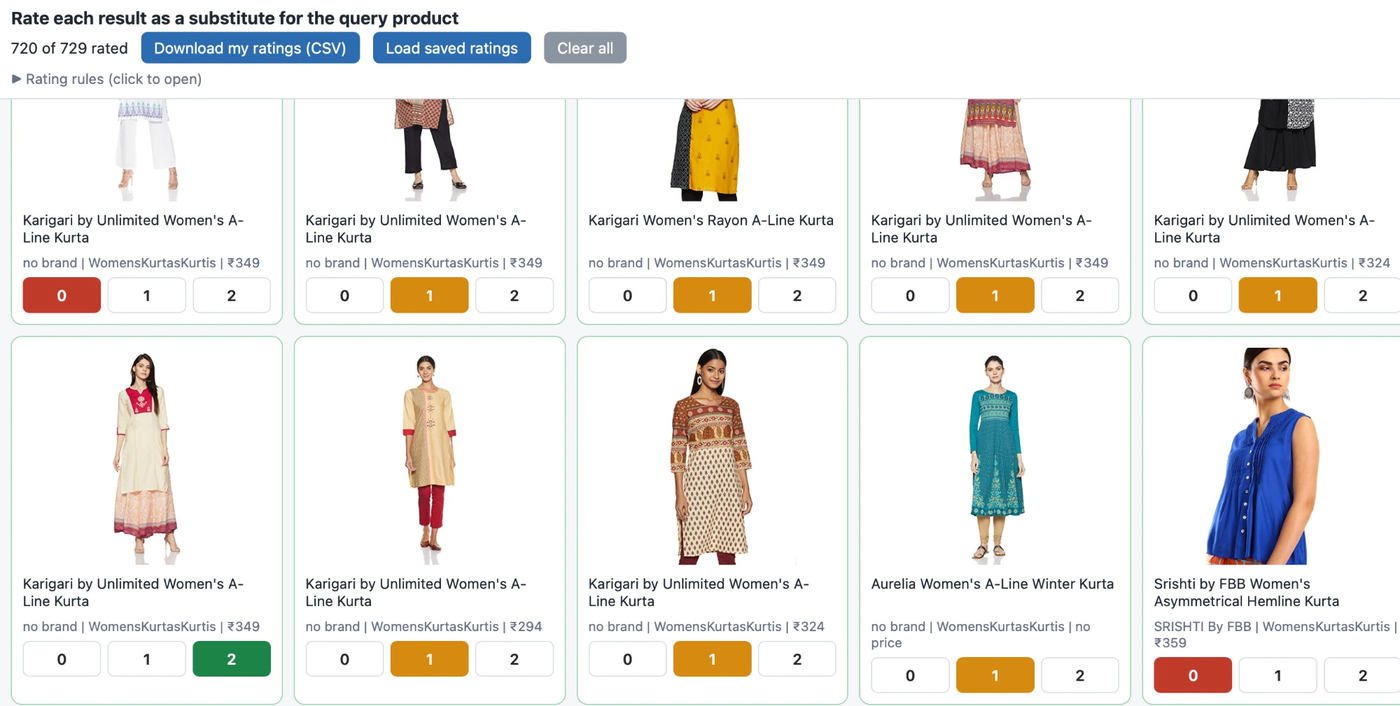
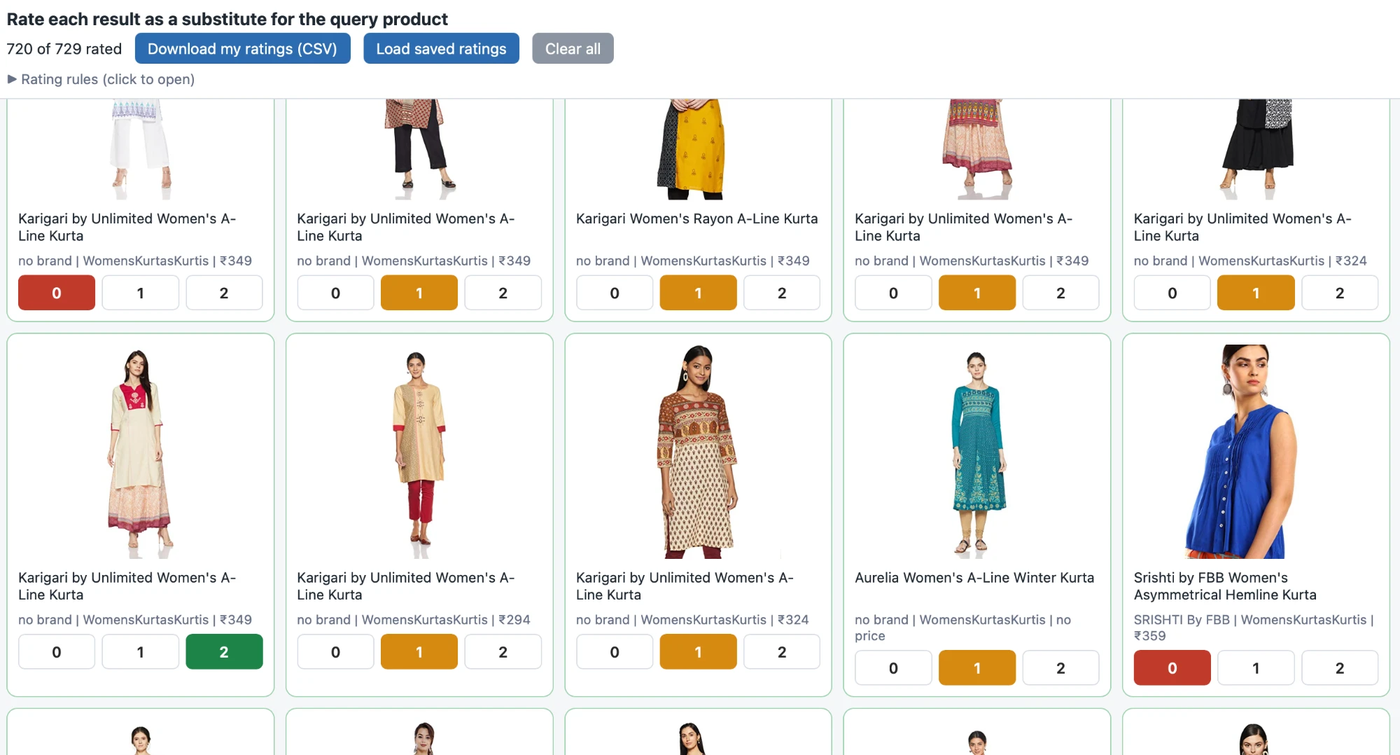
Add MLflow section and screenshots, and simplify the notes

diff --git a/experiments/run_evaluation.py b/experiments/run_evaluation.py
@@ -24,9 +24,10 @@ RESULTS = ROOT / "results"
 LIMITATIONS = [
     "One person rated the results, so the labels reflect one judgment.",
     "Only 30 development products were rated, so small differences cannot be told apart.",
-    "Only results found by these three methods were rated (pooled ratings); a new method's new results need rating before it can be scored fairly.",
-    "Unrated results count as 0 (2 to 6 per method).",
     "The 20 locked final products have not been rated or used.",
+]
+NOTES = [
+    "Each method's top 10 is scored against the ratings (nDCG@10 and precision@10, with 95% ranges from resampling the products).",
 ]
 TAGS = {
     "evaluation_set": "development (30 products)",
@@ -43,13 +44,13 @@ def write_report(summaries: dict, pairs: list, path: Path) -> None:
         "",
         "Three methods scored against human ratings of 30 development products (nDCG@10 and precision@10, with 95% ranges).",
         "",
-        "| Method | nDCG@10 | 95% range | Precision@10 | Strong matches in top 10 | Unrated in top 10 |",
-        "|---|---|---|---|---|---|",
+        "| Method | nDCG@10 | 95% range | Precision@10 | Strong matches in top 10 |",
+        "|---|---|---|---|---|",
     ]
     for name, s in summaries.items():
         lines.append(
             f"| {name} | {s['ndcg_at_10']:.3f} | {s['ndcg_at_10_low']:.2f} to {s['ndcg_at_10_high']:.2f} "
-            f"| {s['precision_at_10']:.2f} | {s['strong_precision_at_10']:.0%} | {int(s['unrated_in_top_10'])} |"
+            f"| {s['precision_at_10']:.2f} | {s['strong_precision_at_10']:.0%} |"
         )
     lines += [
         "",
@@ -61,6 +62,7 @@ def write_report(summaries: dict, pairs: list, path: Path) -> None:
     for a, b, mean, low, high in pairs:
         verdict = "real" if low > 0 or high < 0 else "could be luck"
         lines.append(f"| {a} minus {b} | {mean:+.3f} | {low:+.3f} to {high:+.3f} | {verdict} |")
+    lines += ["", "## How the scores are computed", ""] + [f"- {item}" for item in NOTES]
     lines += ["", "## Limitations", ""] + [f"- {item}" for item in LIMITATIONS] + [""]
     path.write_text("\n".join(lines), encoding="utf-8")
 

diff --git a/README.md b/README.md
@@ -164,7 +164,7 @@ The data has no answer key saying which products are similar, so I made one. A m
 
 ![The rating page: each result is a card with a picture and 0, 1, 2 buttons](evaluation/rating_page.png)
 
-4. **Scoring.** Each method's top 10 is scored with **nDCG@10** (strong matches near the top count most) and **precision@10**, with 95% ranges from resampling the products. Unrated results count as 0.
+4. **Scoring.** Each method's top 10 is scored with **nDCG@10** (strong matches near the top count most) and **precision@10**, with 95% ranges from resampling the products.
 5. **Tracking.** Every run is recorded in MLflow with its settings, scores, data fingerprints and limitations, and the results are exported to [`results/`](results/).
 
 ### First results (30 development products)
@@ -176,6 +176,19 @@ The data has no answer key saying which products are similar, so I made one. A m
 | Attributes only | 0.48 | 0.38 to 0.56 | 0.62 |
 
 The baseline beats each part alone by more than luck. Title only and attributes only cannot be told apart with 30 products. The full table, with limitations, is in [`results/dev_evaluation_report.md`](results/dev_evaluation_report.md).
+
+### Recorded in MLflow
+
+Every scoring run is saved in [MLflow](https://mlflow.org), which keeps a log of experiments so each result can be traced and compared later. For each method, a run records:
+
+- **Settings:** the method and its weights, the number of results scored, and the number of products.
+- **Scores:** nDCG@10 and precision@10, each with its 95% range.
+- **Fingerprints:** short hashes of the dataset and the ratings file, plus the git commit, so the result points to the exact files and code that produced it.
+- **Notes:** the limitations, saved as tags on the run, and the exported result files.
+
+MLflow is used only for tracking. The web service does not use it, and it is not in the Docker image. This is MLflow's comparison page for the three methods:
+
+![MLflow comparing the baseline, title_only and attributes_only runs: settings, weights, fingerprints and scores side by side](evaluation/mlflow_runs.png)
 
 ### Reproduce it
 
@@ -204,8 +217,6 @@ Open http://127.0.0.1:5055, click **Model training** at the top left, and open t
 
 - One person rated, so the labels reflect one judgment.
 - Only 30 products were rated, so small differences cannot be told apart.
-- Only results found by these three methods were rated, so a new method's new results need rating before it can be scored fairly.
-- Nine results were left unrated and count as 0.
 
 ## Project layout
 

diff --git a/results/dev_evaluation_report.md b/results/dev_evaluation_report.md
@@ -2,11 +2,11 @@
 
 Three methods scored against human ratings of 30 development products (nDCG@10 and precision@10, with 95% ranges).
 
-| Method | nDCG@10 | 95% range | Precision@10 | Strong matches in top 10 | Unrated in top 10 |
-|---|---|---|---|---|---|
-| baseline | 0.723 | 0.64 to 0.81 | 0.74 | 54% | 2 |
-| title_only | 0.573 | 0.48 to 0.67 | 0.55 | 42% | 2 |
-| attributes_only | 0.475 | 0.38 to 0.56 | 0.62 | 32% | 6 |
+| Method | nDCG@10 | 95% range | Precision@10 | Strong matches in top 10 |
+|---|---|---|---|---|
+| baseline | 0.723 | 0.64 to 0.81 | 0.74 | 54% |
+| title_only | 0.573 | 0.48 to 0.67 | 0.55 | 42% |
+| attributes_only | 0.475 | 0.38 to 0.56 | 0.62 | 32% |
 
 ## Differences between methods (nDCG@10, same products)
 
@@ -16,10 +16,12 @@ Three methods scored against human ratings of 30 development products (nDCG@10 a
 | baseline minus attributes_only | +0.248 | +0.168 to +0.334 | real |
 | title_only minus attributes_only | +0.098 | -0.028 to +0.223 | could be luck |
 
+## How the scores are computed
+
+- Each method's top 10 is scored against the ratings (nDCG@10 and precision@10, with 95% ranges from resampling the products).
+
 ## Limitations
 
 - One person rated the results, so the labels reflect one judgment.
 - Only 30 development products were rated, so small differences cannot be told apart.
-- Only results found by these three methods were rated (pooled ratings); a new method's new results need rating before it can be scored fairly.
-- Unrated results count as 0 (2 to 6 per method).
 - The 20 locked final products have not been rated or used.
